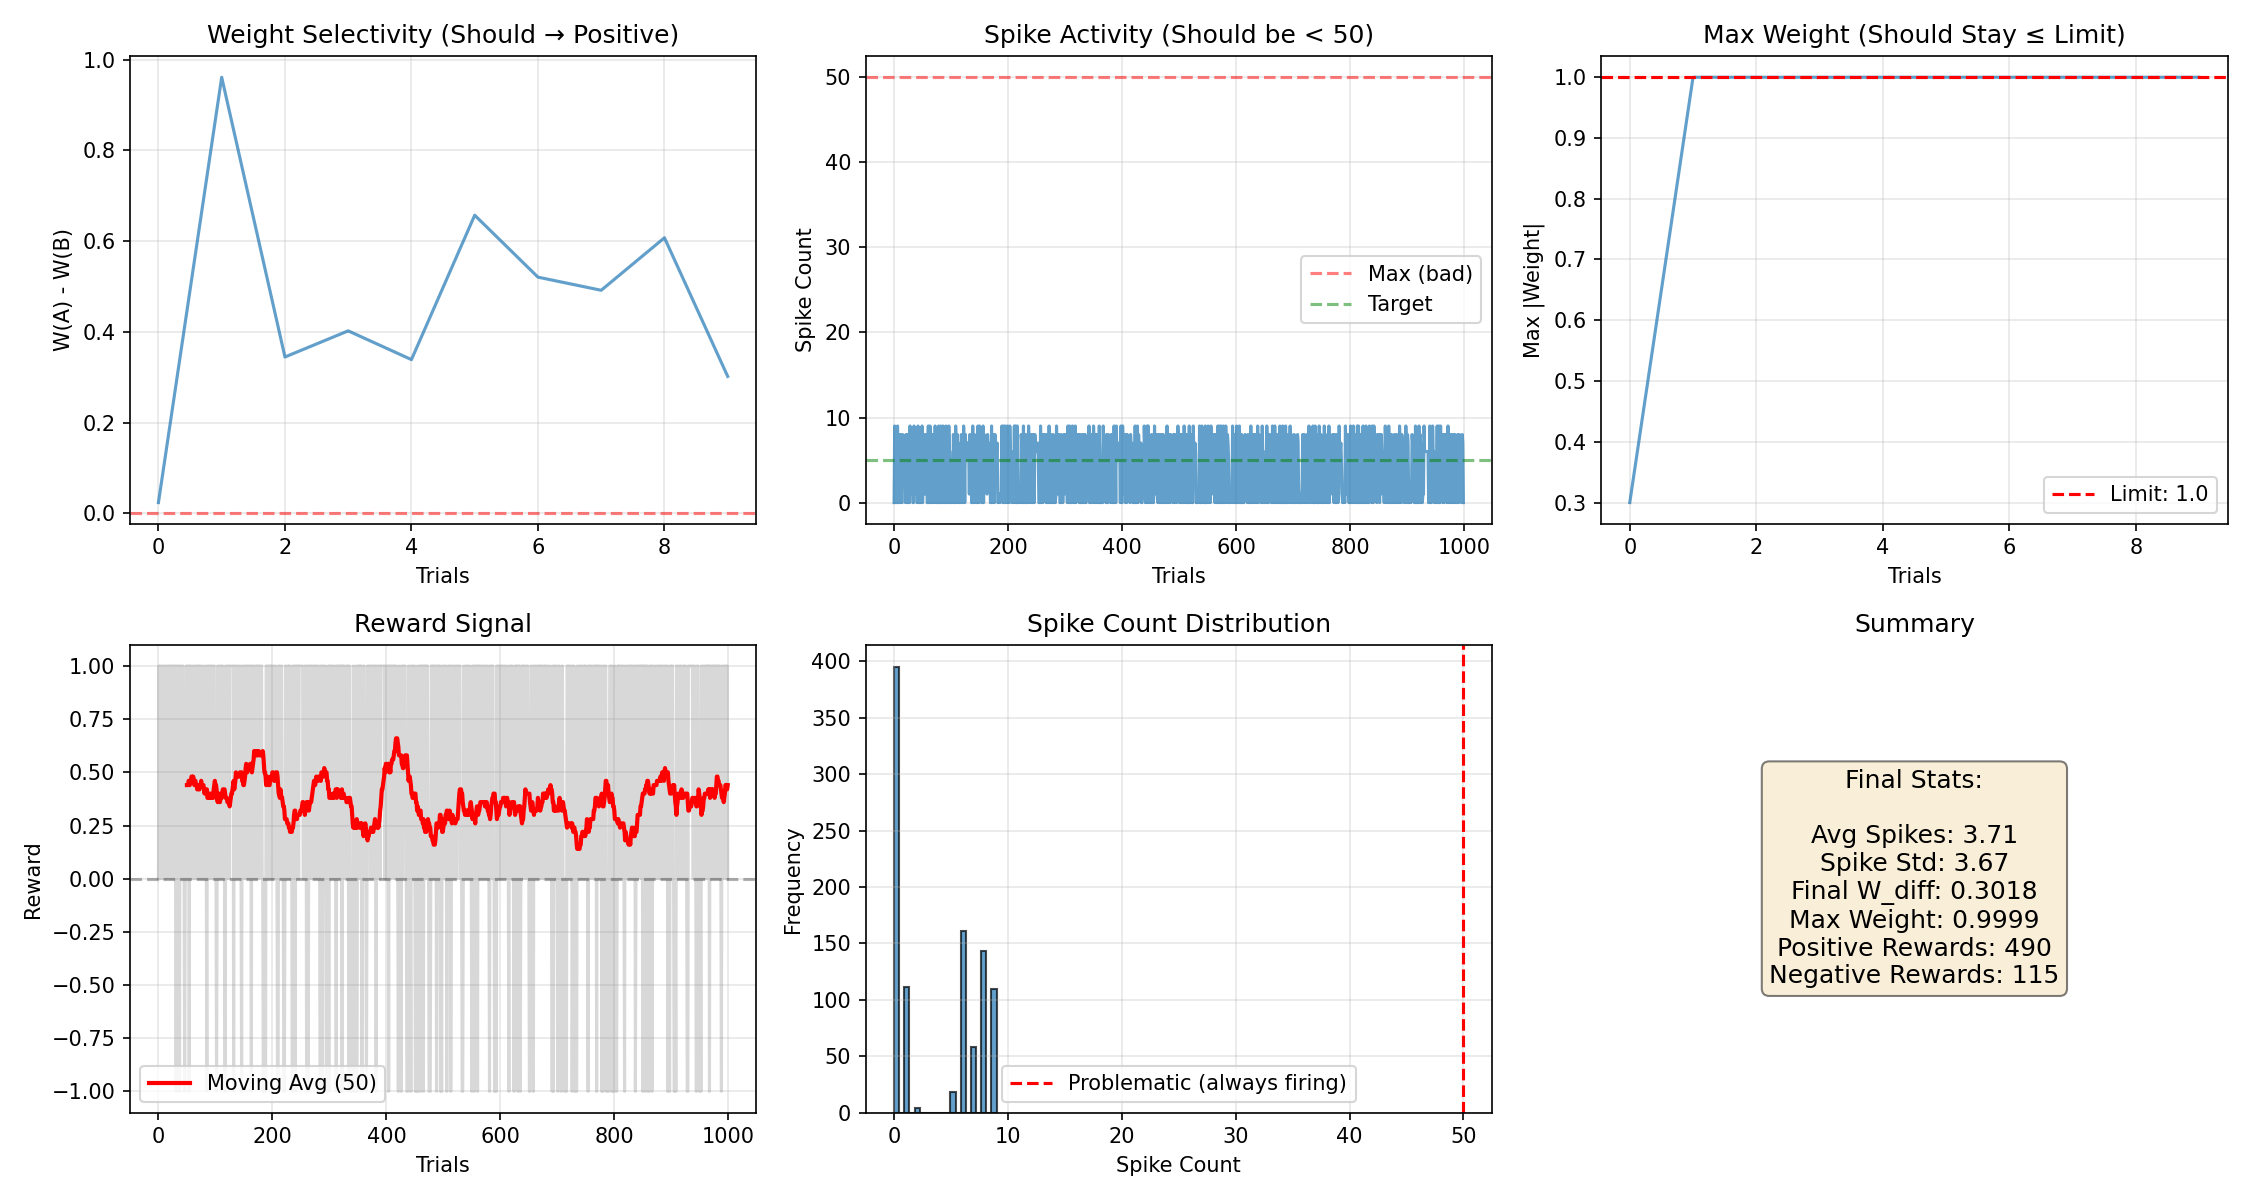
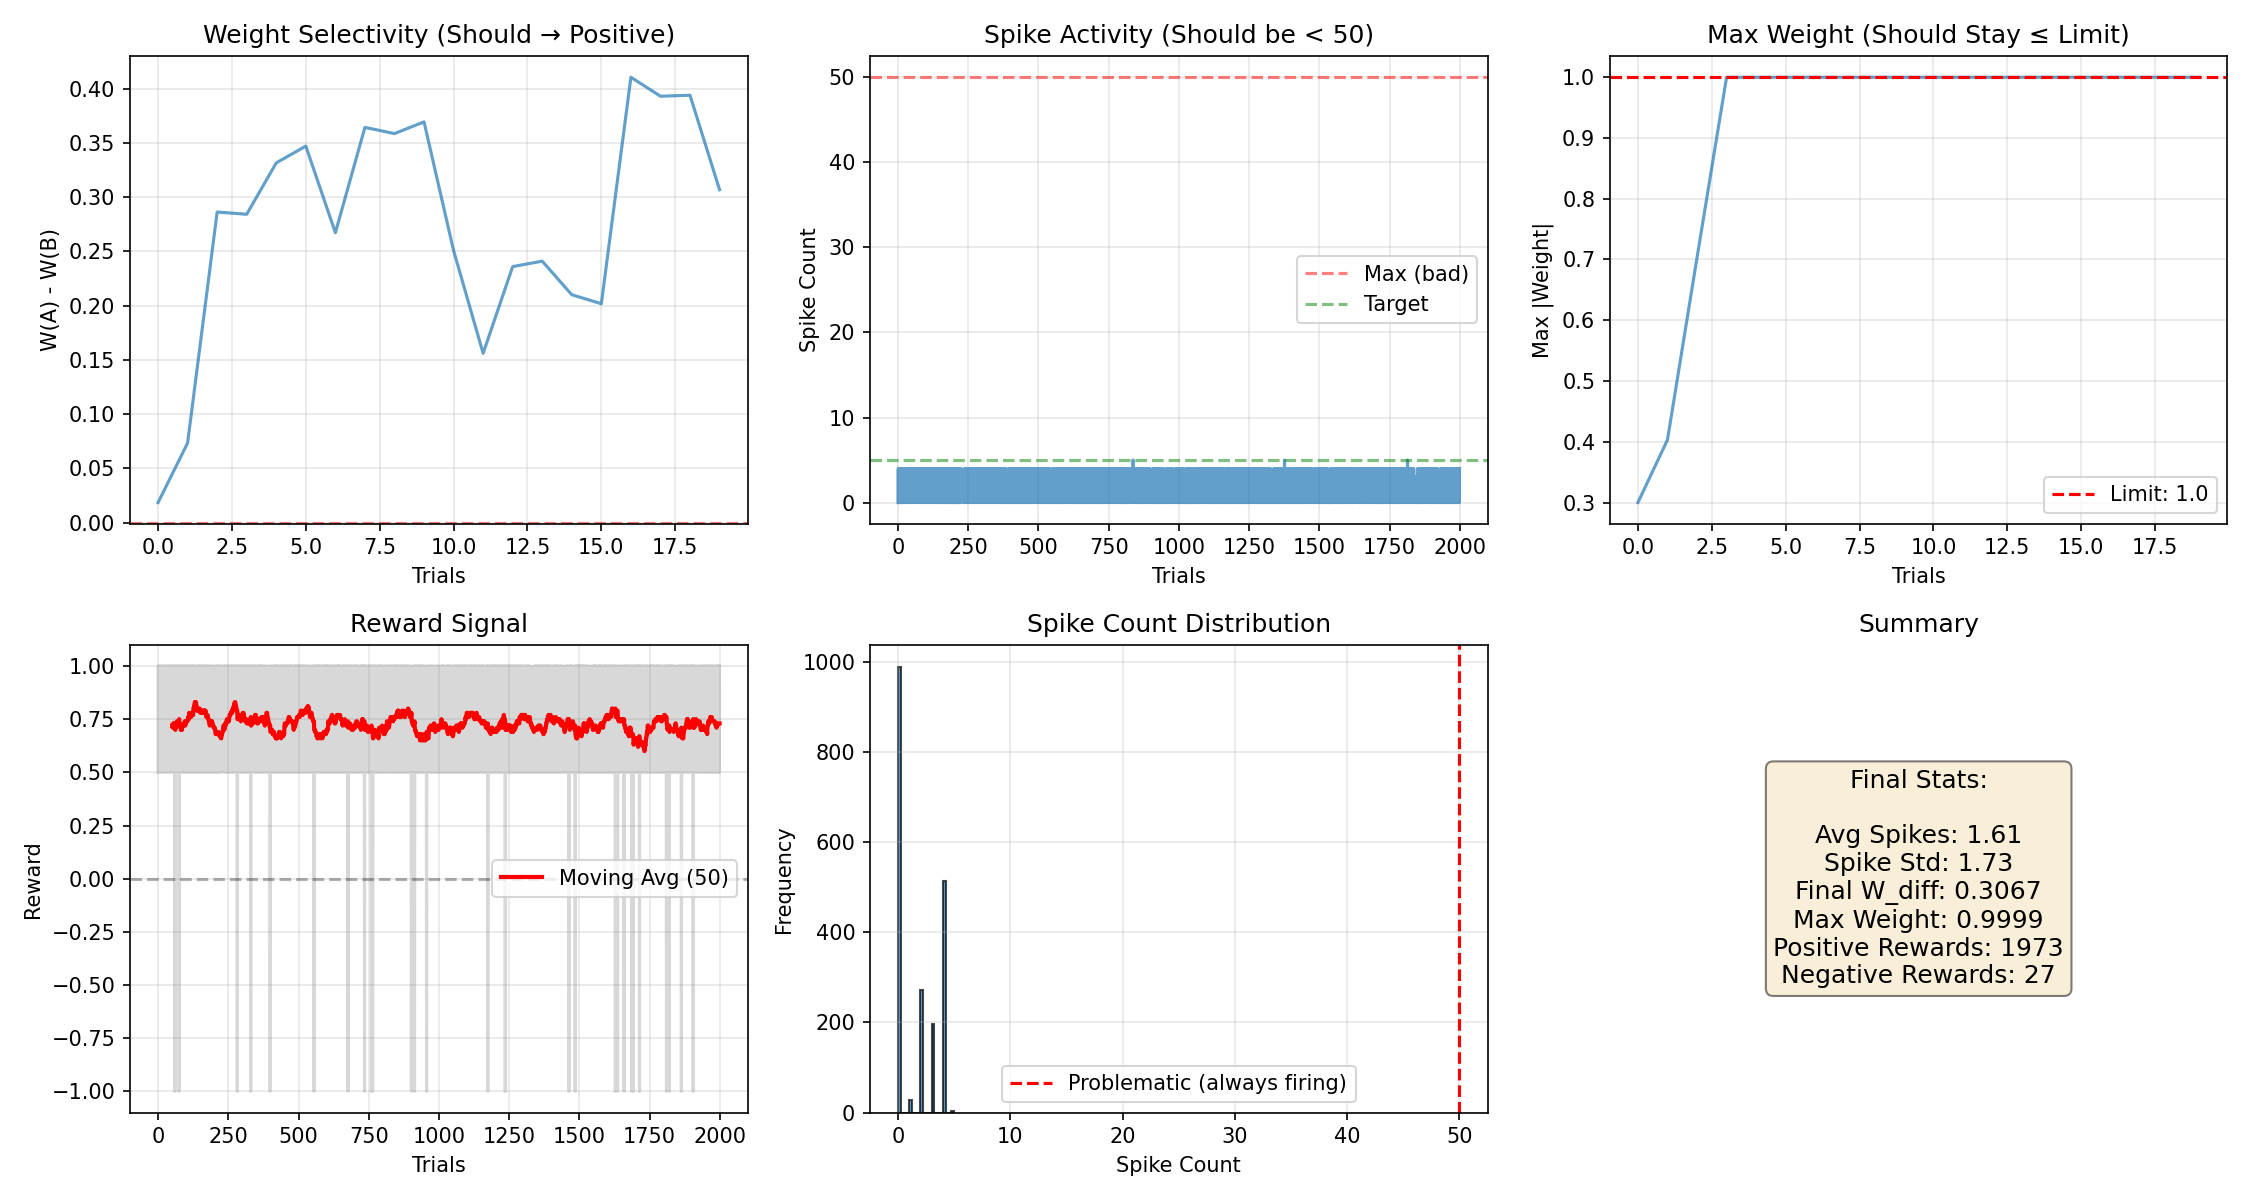
SNN

diff --git a/pavlov_test.py b/pavlov_test.py
@@ -9,43 +9,40 @@ from CNS.mechanisms.neuromodulation.dopamine import DopamineSystem
 def test_pavlov_unified():
     print("開始巴甫洛夫測試...")
 
-    n_neurons = 512
+    n_neurons = 4096
     decision_neuron_idx = 0
-    n_steps = 1000
+    n_steps = 2000
     device = torch.device("cuda" if torch.cuda.is_available() else "cpu")
     save_path = "result_unified.png"
 
-    # === 關鍵參數調整 ===
-    input_gain = 50.0  # 降低輸入強度（從 20 降到 15）
-    noise_level = 5.0  # 降低噪音
-    learning_rate = 0.05  # 大幅降低學習率（從 0.05 降到 0.005）
-    max_weight = 1.0  # 設定權重上限
+    input_gain = 20.0  
+    noise_level = 2.0  
+    learning_rate = 0.001  
+    max_weight = 1.0  
 
-    # 初始化層（加入 refractory period）
     layer = IzhikevichLayer(
-        n_neurons, refractory_steps=5  # 5 個時間步的不反應期
+        n_neurons, refractory_steps=5  
     )
 
-    # === 關鍵：降低連接機率和初始權重 ===
     layer.init_weights(
         strategy="random",
-        connection_prob=0.5,  # 只有 10% 的連接
-        max_weight=1.0,  # 初始權重最大 0.3
+        connection_prob=0.1,  
+        max_weight=1.0,  
     )
     layer.to(device)
 
-    # 只在最開始重置一次
     layer.reset_state(batch_size=1, device=device)
 
-    # 初始化優化器
+    dopamine = DopamineSystem(dt=1.0, base_level=0.1)
+
     opt = ThreeFactorOptimizer(
         layer,
         n_neurons,
-        lr=learning_rate,  # 使用更小的學習率
-        max_weight=max_weight,  # 傳入權重上限
+        dopamine,
+        lr=learning_rate,  
+        max_weight=max_weight,  
     )
 
-    dp = DopamineSystem(dt=1.0, decay_ms=50.0, base_level=0.1)
 
     try:
         layer = torch.compile(layer)
@@ -53,7 +50,6 @@ def test_pavlov_unified():
     except Exception as e:
         print("⚠ 無法啟用 torch.compile，將使用一般模式:", e)
 
-    # 定義輸入模式
     pattern_A_mask = torch.zeros(n_neurons)
     pattern_A_mask[:25] = 1.0
     pattern_B_mask = torch.zeros(n_neurons)
@@ -61,55 +57,36 @@ def test_pavlov_unified():
 
     trial_patterns = (torch.rand(n_steps, device=device) > 0.5).float()
 
-    # 記錄數據
     spike_counts = []
     weight_diff = []
     rewards_history = []
-    weight_max_history = []  # 追蹤權重最大值
+    weight_max_history = []  
 
     for trial in range(n_steps):
-        # 隨機選擇模式
         is_pattern_A = trial_patterns[trial] == 1.0
 
-        # 準備基礎輸入
         base_input = (pattern_A_mask if is_pattern_A else pattern_B_mask) * input_gain
         base_input = base_input.unsqueeze(0).to(device)
 
         total_decision_spikes = torch.tensor(0.0, device=device)
 
-        # 時間步演化
         for t in range(50):
-            # 每個時間步都加新的噪音（但強度較低）
             noise = torch.randn_like(base_input) * noise_level
 
             current_input = base_input + noise
 
-            # 前向傳播
-            spikes, calcium = layer(current_input)
+            neuron_deltas, synapse_deltas = dopamine.get_deltas()
+            spikes, calcium = layer(current_input, neuromodulation_deltas=neuron_deltas)
 
-            # 記錄決策神經元的放電
             total_decision_spikes += layer.post_spike[:, decision_neuron_idx].sum()
 
-        # 根據放電和模式給獎勵
-        reward = 0
-        if total_decision_spikes > 0:
-            if is_pattern_A:
-                reward = 1.0
-            else:
-                reward = -1.0
-        else:
-            reward = 0.0
+        reward = compute_reward(total_decision_spikes, is_pattern_A)
 
-        # 用累積的 eligibility 和獎勵學習
-        dp.update(influx=reward)
-        dopamine_signal = dp.signal()
-    
-        # 6. 獲取神經調質效果
-        neuron_deltas, synapse_deltas = dp.get_deltas()
-
+        dopamine.update(influx=reward)
+        
         spike_counts.append(total_decision_spikes.item())
         rewards_history.append(reward)
-        opt.step(dopamine_system=dp)
+        opt.step(modulation_deltas=synapse_deltas)
 
         if trial % 100 == 0:
             w = layer.synapse.weight.data[decision_neuron_idx].cpu().numpy()
@@ -130,9 +107,9 @@ def test_pavlov_unified():
                 f"Avg: {recent_avg:.1f}, "
                 f"Reward: {reward:+.1f}, "
                 f"W_diff: {diff:.4f}, "
-                f"W_max: {w_max:.4f}"
-                f"Dopamine level:{dp.current_level:.4f}, "
-                f"signal:{dp.signal():.4f}"
+                f"W_max: {w_max:.4f}, "
+                f"Dopamine level:{dopamine.current_level:.4f}, "
+                f"Signal:{dopamine.signal():.4f}"
             )
 
     # === 改進的可視化 ===
@@ -248,6 +225,13 @@ def test_pavlov_unified():
             f"\n⚠  警告：權重超過限制 ({max(weight_max_history):.4f} > {max_weight})"
         )
         print("   建議：檢查 enforce_dale_principle() 是否正確執行")
+
+def compute_reward(spikes, is_patternA):
+    fired = spikes > 0
+    if is_patternA:
+        return 1.0 if fired else -0.5
+    else:
+        return -1.0 if fired else 0.5
 
 
 if __name__ == "__main__":

diff --git a/CNS/mechanisms/neuromodulation/dopamine.py b/CNS/mechanisms/neuromodulation/dopamine.py
@@ -1,21 +1,24 @@
 import numpy as np
 
 class DopamineSystem:
-    def __init__(self, dt=1.0, decay_ms=20.0, base_level=0.1):
+    def __init__(self, dt=1.0, base_level=0.1):
         self.name = "Dopamine"
         self.dt = dt
 
-        self.decay_factor = np.exp(-dt / decay_ms)
         self.base_level = base_level
-        
         self.current_level = base_level
+
+        self.phasic_da = 0.0
+        self.tonic_da = base_level
+
+        self.phasic_decay = 0.8
+        self.tonic_decay = 0.99
         
         self.neuron_effects = {}
         self.synapse_effects = {}
         
-        self.add_neuron_effect('input_bias', coefficient=5.0)
-        
-        self.add_synapse_effect('lr_scale', coefficient=5.0)
+        self.add_neuron_effect('input_bias', coefficient=1.0)
+        self.add_synapse_effect('lr_scale', coefficient=1.0)
 
     def add_neuron_effect(self, param_name, coefficient):
         self.neuron_effects[param_name] = coefficient
@@ -24,13 +27,14 @@ class DopamineSystem:
         self.synapse_effects[rule_name] = coefficient
 
     def update(self, influx):
-        self.current_level = (
-            self.base_level + 
-            (self.current_level - self.base_level) * self.decay_factor + 
-            influx
-        )
+        self.phasic_da = self.phasic_da * self.phasic_decay + influx
+        self.phasic_da = np.clip(self.phasic_da, -1.0, 1.0)
         
-        self.current_level = np.clip(self.current_level, 0.0, 5.0) # 允許暫時衝高超過 1.0
+        self.tonic_da += (self.base_level - self.tonic_da) * (1.0 - self.tonic_decay)
+
+        raw_level = self.tonic_da + self.phasic_da
+
+        self.current_level = np.clip(raw_level, 0.0, 2.0)
 
         return self.current_level
 
@@ -42,4 +46,4 @@ class DopamineSystem:
         return n_deltas, s_deltas
 
     def signal(self):
-        return self.current_level - self.base_level
+        return self.phasic_da

diff --git a/CNS/mechanisms/three_factor.py b/CNS/mechanisms/three_factor.py
@@ -7,6 +7,7 @@ class ThreeFactorOptimizer:
         self,
         layer,
         n_neurons,
+        dopamine,
         lr=1e-3,
         theta_d=0.5,
         theta_p=1.2,
@@ -39,10 +40,11 @@ class ThreeFactorOptimizer:
         self.A_plus = 1.0
         self.A_minus = 0.5
 
+        self.dopamine = dopamine
         self.dopamine_level = 0.0
 
 
-    def step(self, dopamine_system, modulation_deltas=None):
+    def step(self, modulation_deltas=None):
         lr_scale = 1.0
         is_frozen = False
         if modulation_deltas is not None:
@@ -86,7 +88,7 @@ class ThreeFactorOptimizer:
         # E(t) = E(t-1) * decay + STDP(t)
         self.eligibility_trace = self.eligibility_trace * 0.95 + stdp_update
 
-        self.dopamine_level = dopamine_system.signal()
+        self.dopamine_level = self.dopamine.signal()
 
         # dW = Learning_Rate * Dopamine * Eligibility
         if abs(self.dopamine_level) > 0.001:
